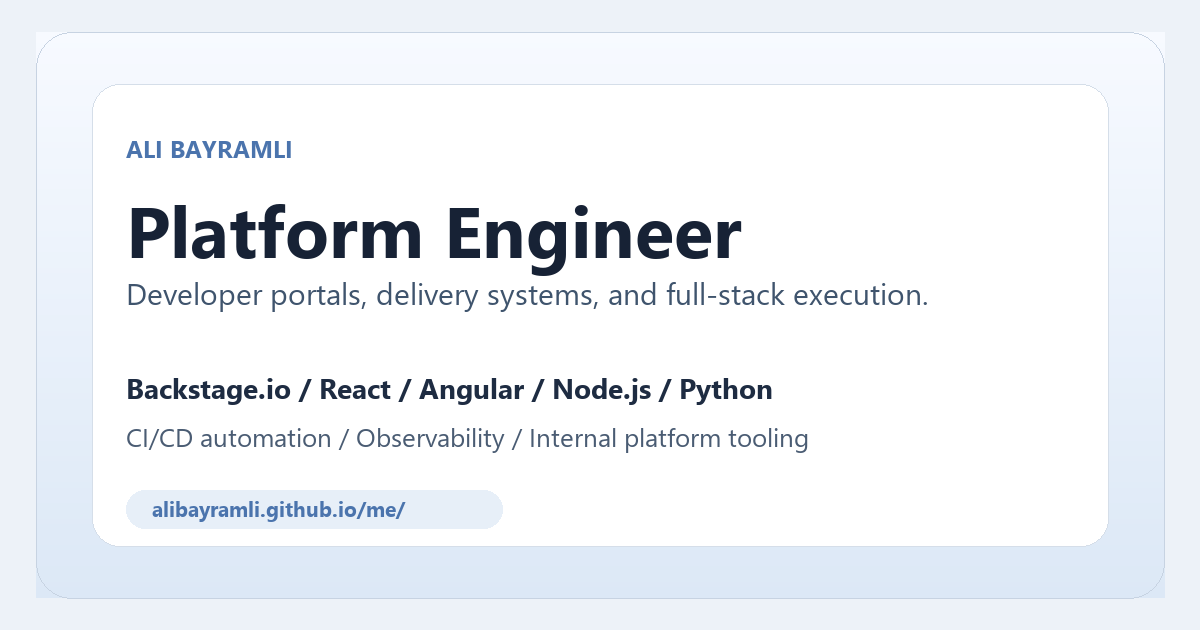
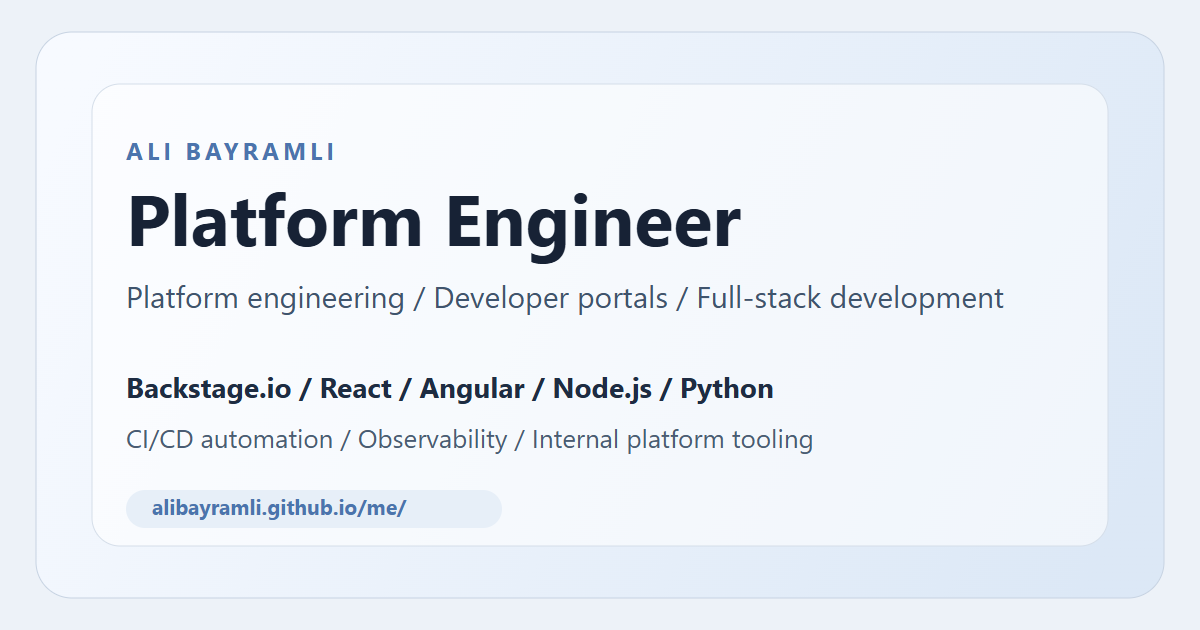
chore: sync og card content

diff --git a/src/components/sections/Footer.tsx b/src/components/sections/Footer.tsx
@@ -3,6 +3,8 @@ import { GitHubIcon, LinkedInIcon } from '@/components/brand-icons'
 import { NAV_ITEMS, SITE_PROFILE } from '@/lib/portfolio-data'
 
 const Footer = () => {
+  const capabilitySummary = SITE_PROFILE.heroCapabilities.join(' / ')
+
   return (
     <footer className="border-t border-border/70 px-6 py-8">
       <div className="mx-auto flex max-w-6xl flex-col gap-6 md:flex-row md:items-center md:justify-between">
@@ -10,7 +12,7 @@ const Footer = () => {
           <div className="text-lg font-semibold">{SITE_PROFILE.name}</div>
           <div>
             <div className="text-sm text-muted-foreground">
-              {SITE_PROFILE.title} / platform work, delivery systems, and full-stack execution
+              {SITE_PROFILE.title} / {capabilitySummary}
             </div>
           </div>
         </div>
